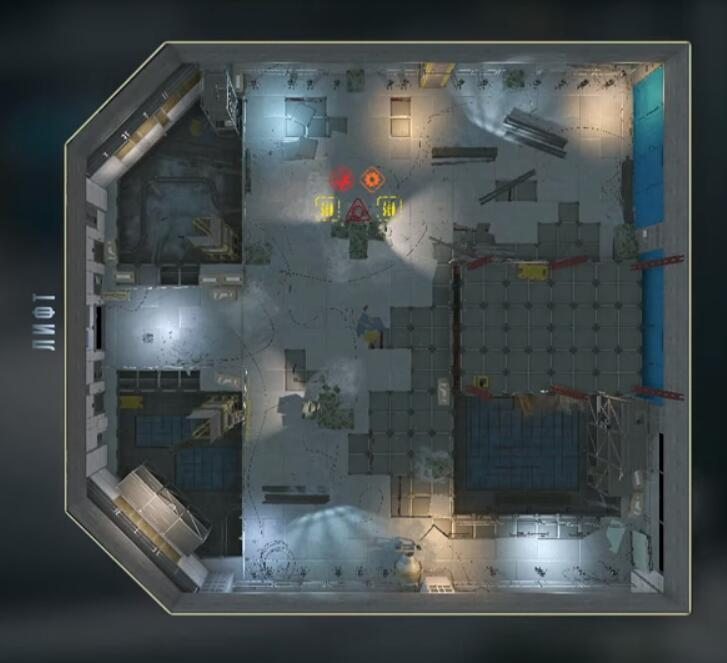
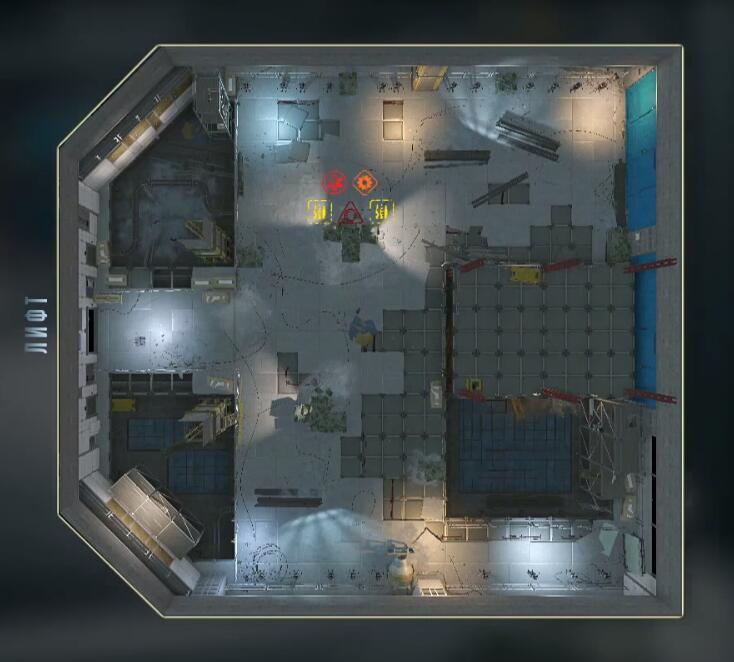
4.黑鲨.md 2019-8-13

diff --git a/4.黑鲨.md b/4.黑鲨.md
@@ -21,6 +21,19 @@
 - ## 1/10
     - 第一波
         - 出电梯，站在中间，看敌人从那边出来，然后返方向跑到另一边的沙包后
-        - ![](https://github.com/946629031/Blog/blob/master/img/1.black_shark.jpg)
     - 第二波
         - 跑到地图对称的另一边的沙包后
+    - 注意：
+        - 一个步枪看身后，两个步枪清前方小怪
+    - ![](https://github.com/946629031/Blog/blob/master/img/1.black_shark.jpg)
+    - ![](https://github.com/946629031/Blog/blob/master/img/1-2.black_shark.jpg)
+
+- ## 2/10
+    - 出门就蹲着左边，或者右边，都可以，一直打到不出怪
+    - ![](https://github.com/946629031/Blog/blob/master/img/2.black_shark.jpg)
+
+- ## 3/10
+    - ![](https://github.com/946629031/Blog/blob/master/img/3.black_shark.jpg)
+    - 可以按照上图的站位，也可以出门往右上方跑去，直接跑到底，烟雾弹轮流丢，作为照明弹
+
+- ## 4/10
